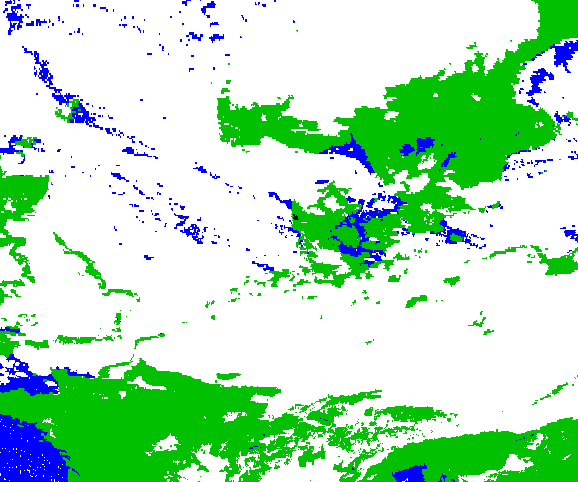
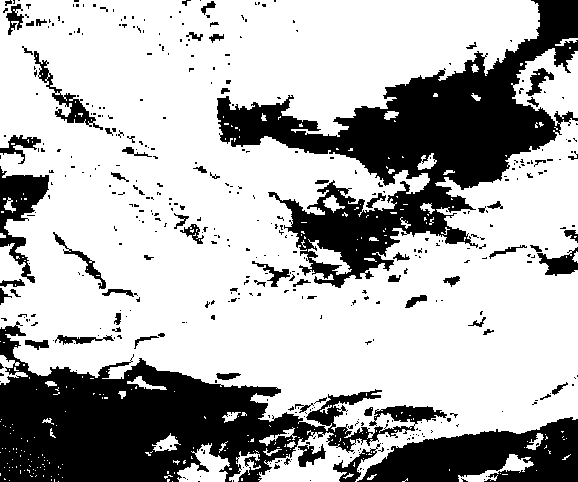
cleaned up and started work on data analisys
Cleaned up in the image_download.py file and created a quick first version of a compere matching pixels script.

diff --git a/src/satellite_imagery_download/image_download.py b/src/satellite_imagery_download/image_download.py
@@ -1,5 +1,4 @@
 import warnings
-from IPython.display import Image
 from owslib.wcs import WebCoverageService
 from owslib.util import Authentication
 from owslib.fes import *
@@ -24,9 +23,6 @@ credentials = (consumer_key, consumer_secret)
 # Create a token object from the credentials
 token = eumdac.AccessToken(credentials)
 
-# Print the token and its expiration time
-# print(f"This token '{token}' expires {token.expiration}")
-
 # Set up the authorization headers for future requests
 auth_headers = {"Authorization": f"Bearer {token.access_token}"}
 
@@ -43,9 +39,30 @@ format_option = 'image/png'
 region = (-4, 45, 20, 65) # order is lon1,lat1,lon2,lat2
 
 # start time, end time and delta for iteration
-start_date = datetime.datetime(2025, 10, 17, 00, 00, 00, 000)
-end_date = datetime.datetime(2025, 10, 17, 00, 00, 00, 000)
+start_date = datetime.datetime(2025, 10, 18, 16, 00, 00, 000)
+end_date = datetime.datetime(2025, 10, 18, 16, 00, 00, 000)
 delta = datetime.timedelta(minutes=15)
+
+def remove_backgrund(file_name):
+    # Read image (BGR format)
+    img = cv2.imread(file_name)
+
+    # Define target color (B, G, R)
+    target_green = np.array([0, 192, 0])  # green in BGR
+    target_blue = np.array([255, 0, 0])  # blue in BRG
+
+    # Create masks for exact matches
+    mask_green = np.all(img == target_green, axis=-1)
+    mask_blue = np.all(img == target_blue, axis=-1)
+
+    # Combine both masks
+    mask = mask_green | mask_blue
+
+    # Set those pixels to black
+    img[mask > 0] = [0, 0, 0]
+
+    # Save result
+    cv2.imwrite(file_name, img)
 
 mask_input = input("Should blue and green be changed to black? (y/n)")
 
@@ -72,24 +89,6 @@ while (start_date <= end_date):
         f.write(output.read()) #skriver till output med binärkod till PNG filen
 
     if mask_input == "y":
-        # Read image (BGR format)
-        img = cv2.imread(f"images/{time[1].replace(":", "-")}.png")
-
-        # Define target color (B, G, R)
-        target_green = np.array([0, 192, 0])  # green in BGR
-        target_blue = np.array([255, 0, 0])  # blue in BRG
-
-        # Create masks for exact matches
-        mask_green = np.all(img == target_green, axis=-1)
-        mask_blue = np.all(img == target_blue, axis=-1)
-
-        # Combine both masks
-        mask = mask_green | mask_blue
-
-        # Set those pixels to black
-        img[mask > 0] = [0, 0, 0]
-
-        # Save result
-        cv2.imwrite(f"images/{time[1].replace(":", "-")}.png", img)
+        remove_backgrund(f"images/{time[1].replace(":", "-")}.png")
 
     print(output, time[1])

diff --git a/src/picture_analisys/picture_difference.py b/src/picture_analisys/picture_difference.py
@@ -1,0 +1,14 @@
+import cv2
+import numpy as np
+
+img1 = cv2.imread('../satellite_imagery_download/images/2025-10-17T00-00-00.000.png')
+img2 = cv2.imread('../satellite_imagery_download/images/2025-10-18T16-00-00.000.png')
+
+diff = cv2.absdiff(img1, img2)
+
+non_zero_pixels = np.count_nonzero(diff)
+total_pixels = img1.size
+
+procetage = 100 - ((non_zero_pixels / total_pixels) * 100)
+
+print(f"Procentage of matching pixels is: {procetage}%")
